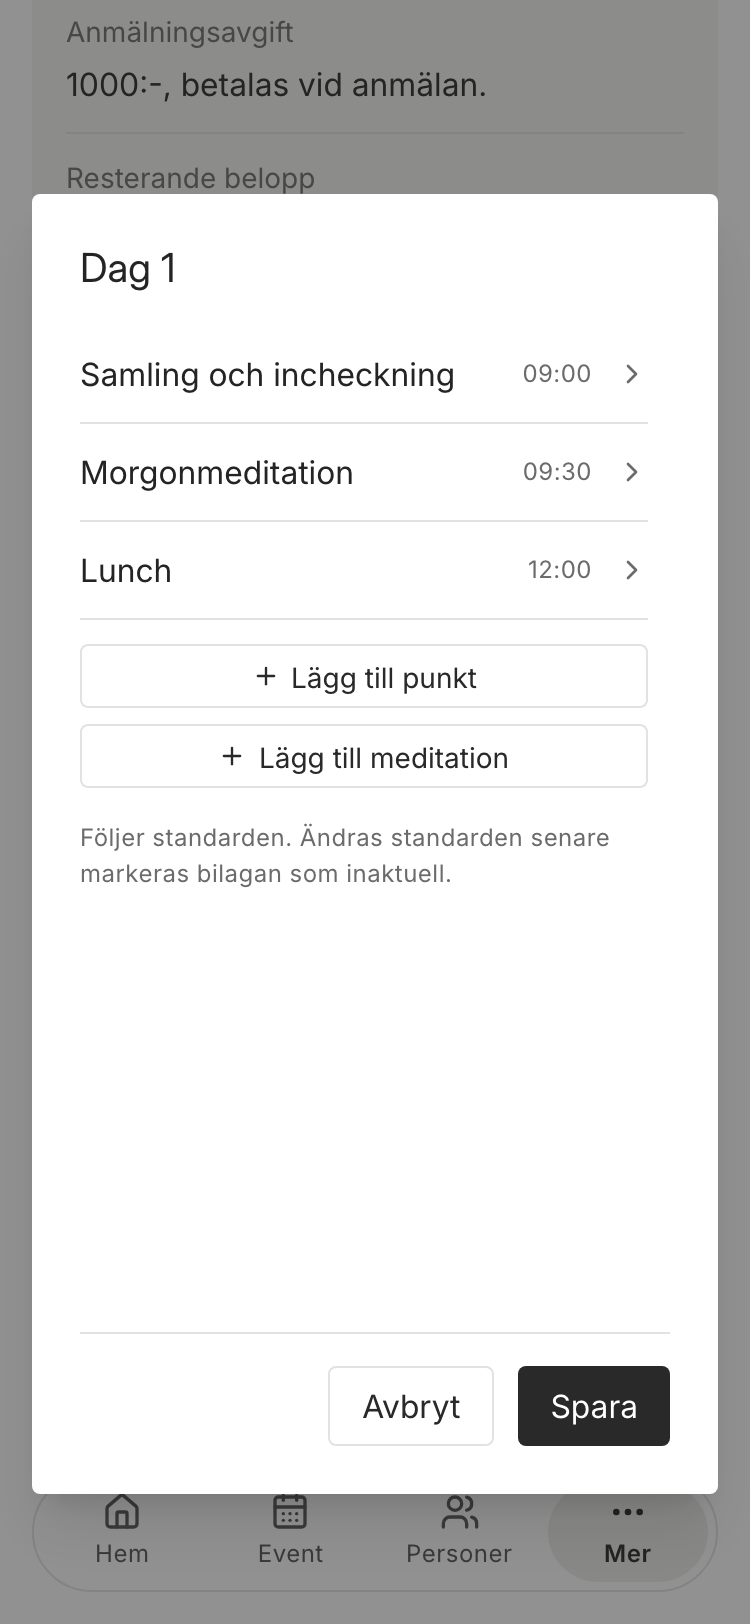
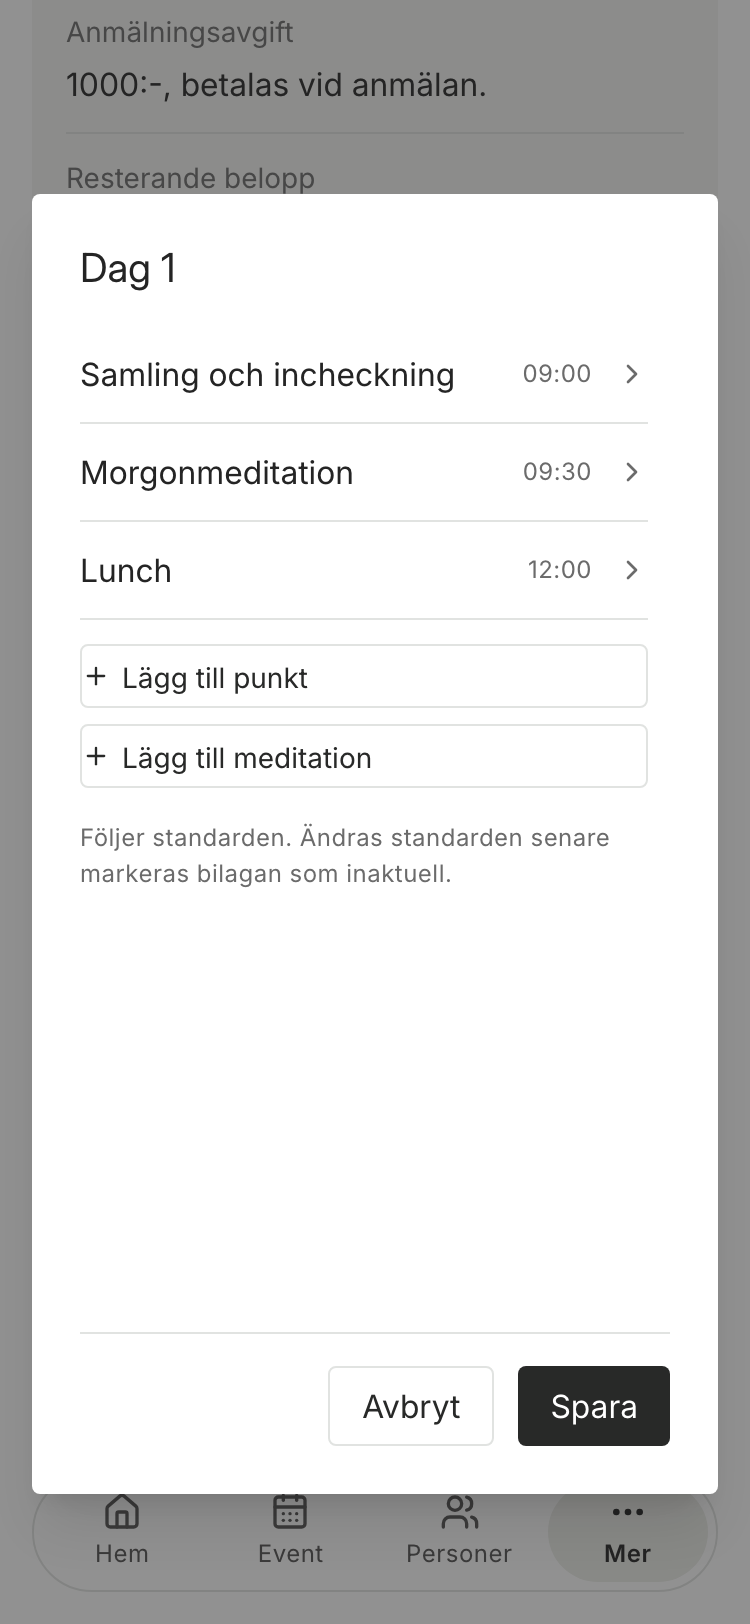
fix(dokument): [TASK-309.28] agenda-dialogens knappar vänsterställda, inte centrerade
Marcus prod-röktest 2026-08-26 (S108 resume 11): "+lägg till punkt" och
"+lägg till meditation" i block-dialogens agenda-läge låg med
center/center-innehåll i sina fullbredda knappar. BlockDialog.tsx AgendaEditor
bar `w-full justify-center` — `justify-center` ärvs annars från Button.tsx:s
bas-klasser och centrerade ikon+text långt till höger om agendaradernas text
ovanför.

Fix: `justify-start pl-0` (nollar size="sm"s px-3 bara på vänstersidan, pr-3
orört via cn()/tailwind-merge — samma justify-start-precedent som
AnmalningRadResolution.tsx/AnmalningarSida.tsx redan bär för flush-vänsterställda
triggers). Mätt (engångs-Playwright-spec, [DEBUG-TASK-309.28], raderad efter
passet): knapparnas ikon-x ligger inom 1 px av agendaradernas text-x i BÅDA
vyporterna (desktop 456→457, 375 px 40→41 — diffen är knappens egen 1px-kant).

Facit: block-dialog-agenda-{desktop,mobil}.png omtagna med skiva 9:s metod
(ingen fullPage, animations disabled), facit.json "not"-fält uppdaterat,
"godkand" orört (null). Promoverings-grindens ariaSnapshot-par
(block-dialog-agenda.aria.yml) kört om oförändrat — 12/12 gröna, ingen
uppdatering behövdes. Tabordning (Lägg till punkt → Lägg till meditation →
Avbryt → Spara) och tillgängliga namn oförändrade; axe 0 violations.

Changed region(s): [[0.184, 0.4002, 0.644, 0.431], [0.276, 0.4618, 0.6747, 0.4926], [0.184, 0.4618, 0.2453, 0.4926]]

diff --git a/src/components/dokument/BlockDialog.tsx b/src/components/dokument/BlockDialog.tsx
@@ -295,13 +295,21 @@ export function AgendaEditor({
       </ul>
       {/* Staplade och LIKA BREDA — `w-fit` gav två olika breda knappar under
           varandra, vilket läses som slarv. Full bredd ger dem samma vikt och
-          en större träffyta. */}
+          en större träffyta.
+          VÄNSTERSTÄLLDA, INTE CENTRERADE (TASK-309.28, Marcus prod-röktest
+          2026-08-26): `justify-center` (ärvt från `Button`s bas-klasser)
+          lät ikon+text flyta i mitten av den fullbredda knappen — långt
+          till höger om agendaradernas text ovanför. `justify-start` +
+          `pl-0` (nollar `size="sm"`s `px-3` bara på vänstersidan, `pr-3`
+          orört) ger samma vänsterkant som radernas text: båda är MÄTTA
+          till x=456 (desktop) / x=40 (375 px) — knapparnas egen box låg
+          redan där, det var bara INNEHÅLLET som centrerades bort från den. */}
       <div className="flex flex-col gap-2">
         <Button
           intent="secondary"
           emphasis="outline"
           size="sm"
-          className="w-full justify-center"
+          className="w-full justify-start pl-0"
           onPress={() => laggTill(false)}
         >
           <Plus aria-hidden="true" size={14} />
@@ -311,7 +319,7 @@ export function AgendaEditor({
           intent="secondary"
           emphasis="outline"
           size="sm"
-          className="w-full justify-center"
+          className="w-full justify-start pl-0"
           onPress={() => laggTill(true)}
         >
           <Plus aria-hidden="true" size={14} />

diff --git a/backlog/tasks/task-309.28 - Fynd-agenda-dialogens-knappar-Lägg-till-punkt-och-Lägg-till-meditation-ska-vänsterställas-inte-centreras.md b/backlog/tasks/task-309.28 - Fynd-agenda-dialogens-knappar-Lägg-till-punkt-och-Lägg-till-meditation-ska-vänsterställas-inte-centreras.md
@@ -6,6 +6,7 @@ title: >-
 status: To Do
 assignee: []
 created_date: '2026-08-26 03:26'
+updated_date: '2026-08-26 04:15'
 labels:
   - ready-for-agent
 dependencies: []
@@ -27,15 +28,15 @@ FACIT: block-dialogens agenda-läge är en av s108-genererings ytor (facit.json 
 
 ## Acceptance Criteria
 <!-- AC:BEGIN -->
-- [ ] #1 Knapparna '+ Lägg till punkt' och '+ Lägg till meditation' är vänsterställda i linje med agendaradernas vänsterkant, i desktop och 375 px — bounding-box-mätning mot radernas x-position i PR:en
-- [ ] #2 Ingen annan form i dialogen ändrad (ariaSnapshot-paret för block-dialogen oförändrat utöver knappraden)
-- [ ] #3 Berörda facit-bilder i s108-generering omtagna med skiva 9:s metod; not-fältet uppdaterat; godkand orört; dokumentationsgrindarna exit 0
-- [ ] #4 Tabordning och knapparnas tillgängliga namn oförändrade; axe grönt
+- [x] #1 Knapparna '+ Lägg till punkt' och '+ Lägg till meditation' är vänsterställda i linje med agendaradernas vänsterkant, i desktop och 375 px — bounding-box-mätning mot radernas x-position i PR:en
+- [x] #2 Ingen annan form i dialogen ändrad (ariaSnapshot-paret för block-dialogen oförändrat utöver knappraden)
+- [x] #3 Berörda facit-bilder i s108-generering omtagna med skiva 9:s metod; not-fältet uppdaterat; godkand orört; dokumentationsgrindarna exit 0
+- [x] #4 Tabordning och knapparnas tillgängliga namn oförändrade; axe grönt
 <!-- AC:END -->
 
 ## Definition of Done
 <!-- DOD:BEGIN -->
-- [ ] #1 Alla acceptanskriterier avbockade (task edit --check-ac)
-- [ ] #2 Rörd fil-klass lokala grindar gröna (L147)
-- [ ] #3 Inga orelaterade filer i diffen (path-scopad add)
+- [x] #1 Alla acceptanskriterier avbockade (task edit --check-ac)
+- [x] #2 Rörd fil-klass lokala grindar gröna (L147)
+- [x] #3 Inga orelaterade filer i diffen (path-scopad add)
 <!-- DOD:END -->
